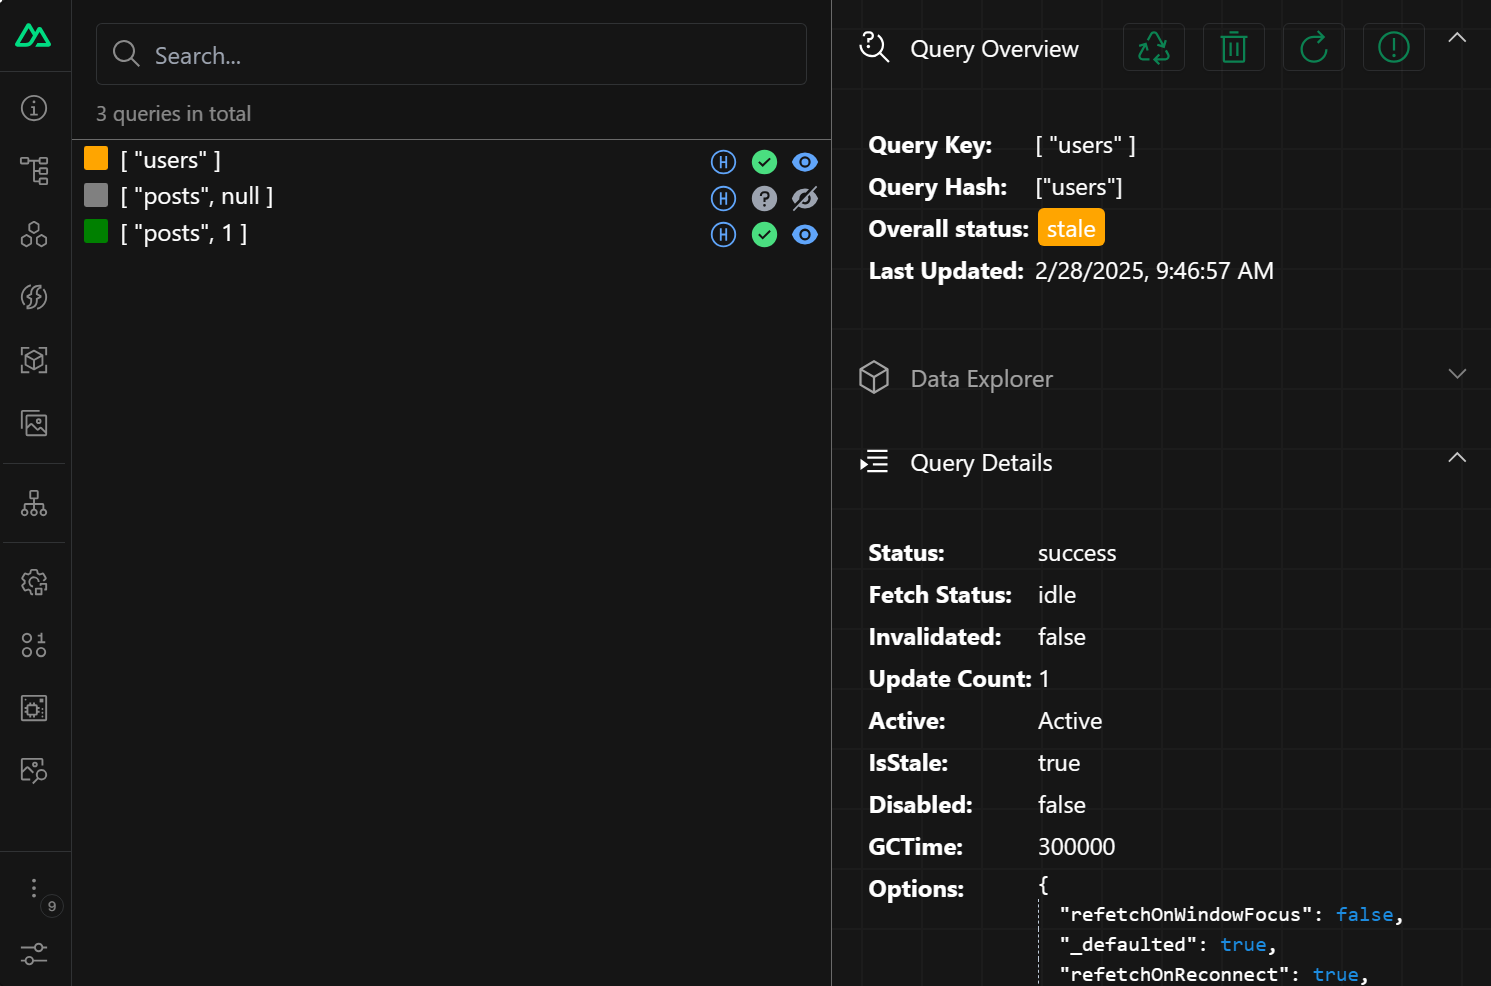
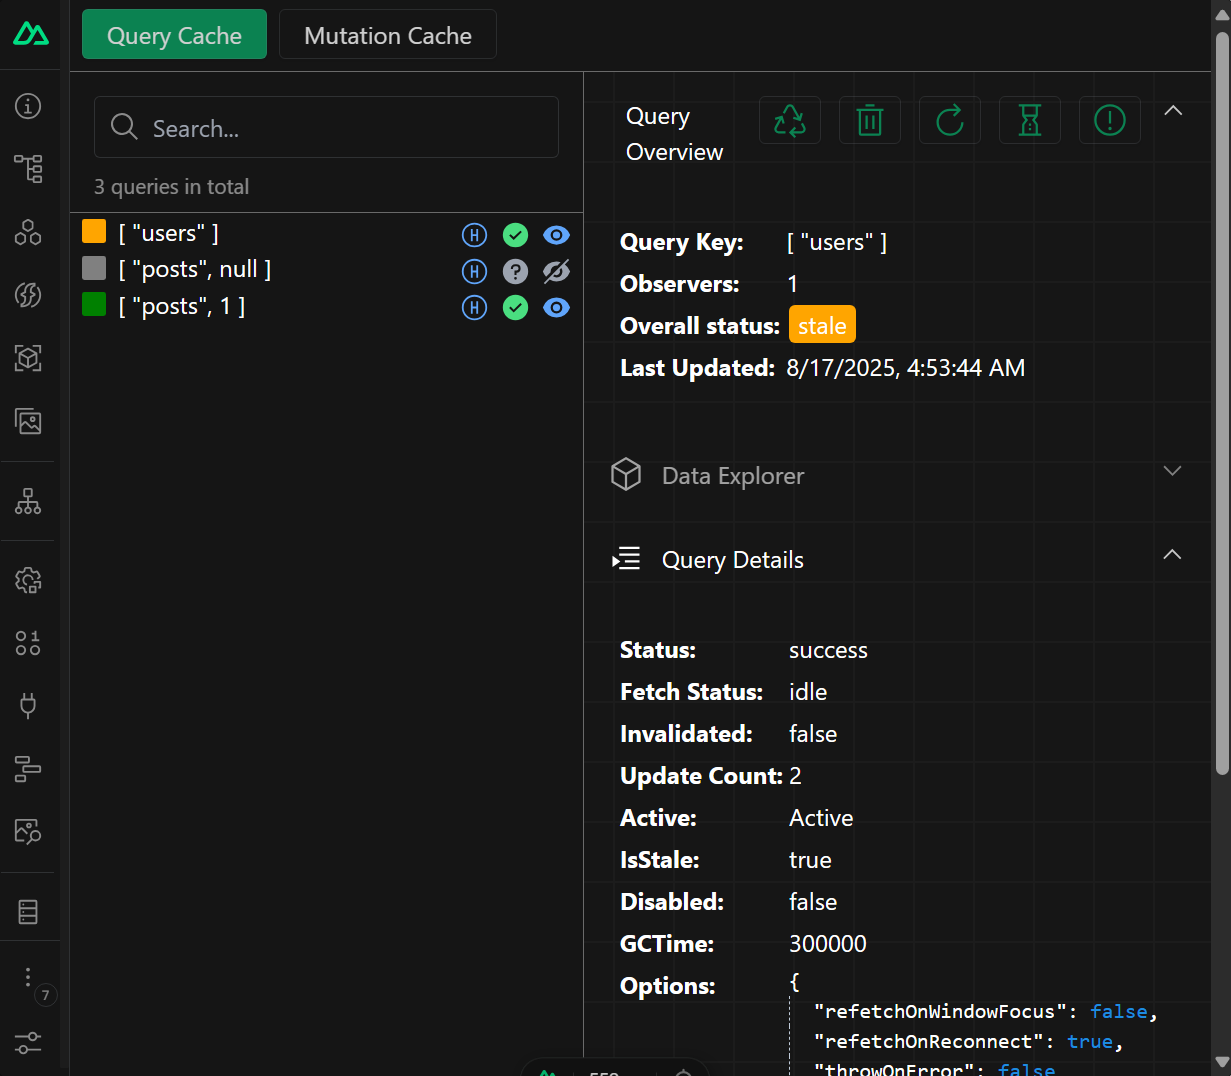
docs: update README for clarity and add new images

diff --git a/README.md b/README.md
@@ -5,18 +5,18 @@
 [![License][license-src]][license-href]
 [![Nuxt][nuxt-src]][nuxt-href]
 
-Nuxt Query is a module for integrating [Tanstack Query](https://tanstack.com/query/latest/docs/framework/vue/overview) (formerly known as Vue Query) into your Nuxt application, providing a powerful solution for fetching, caching, synchronizing and updating server state.
+A powerful Nuxt module for integrating [TanStack Query](https://tanstack.com/query/latest/docs/framework/vue/overview) (formerly Vue Query) into your Nuxt application. Provides robust server state management with intelligent caching, background updates, and seamless data synchronization.
 
 - [✨ &nbsp;Release Notes](/CHANGELOG.md)
+- [🏀 &nbsp;Online playground](https://stackblitz.com/github/peterbud/nuxt-query/tree/main/examples/minimal)
 
 ## Features
 
-<!-- Highlight some of the features your module provide here -->
-- ⚙ &nbsp; 0 config integration
-- 💪 &nbsp; Full support of Vue Query config settings
-- 🏆 &nbsp; Support for complex `QueryClient` setup with handlers via hooks
+- ⚙ &nbsp; Zero-configuration integration
+- 💪 &nbsp; Full TypeScript support with Vue Query configuration
+- 🏆 &nbsp; Advanced `QueryClient` setup with custom handlers via hooks
 - 🤖 &nbsp; Configurable auto-imports for Vue Query composables
-- 🧩 &nbsp; Nuxt DevTools integration for easy debugging
+- 🧩 &nbsp; Nuxt DevTools integration for debugging and inspection
 
 ## Installation
 
@@ -29,7 +29,7 @@ npx nuxi module add @peterbud/nuxt-query
 or via npm:
 
 ```bash
-pnpm dlx nuxi module add @peterbud/nuxt-query
+npm install @peterbud/nuxt-query
 ```
 
 ## Configuration
@@ -42,12 +42,12 @@ export default defineNuxtConfig({
   modules: ['@peterbud/nuxt-query'],
   nuxtQuery: {
     /**
-     * Specify which Vue Query composable(s) to auto-import
-     * Default to `false`, set to `true` to auto-import all Vue Query composables
+     * Specify which Vue Query composables to auto-import
+     * Default: `false`, set to `true` to auto-import all Vue Query composables
      */
     autoImports: ['useQuery', 'useMutation'],
 
-    // Enable / disable Nuxt DevTools integration (default: true).
+    // Enable/disable Nuxt DevTools integration (default: true)
     devtools: true,
 
     /**
@@ -93,7 +93,7 @@ That's it! You can now use Nuxt Query in your Nuxt app ✨
 
 ## Module Hooks
 
-Nuxt Query provides a hook that you can use in your application if you need a more complex setup for Vue Query, like custom query client with centralized `onSuccess` or `onError` handlers, which would not be possible to configure with the options available in the `nuxt.config.ts`.
+Nuxt Query provides a hook that you can use in your application if you need a more complex setup for TanStack Query, such as a custom query client with centralized `onSuccess` or `onError` handlers, which would not be possible to configure with the options available in the `nuxt.config.ts`.
 
 The hook is called `nuxt-query:configure` and you can use it in a plugin to return a custom `QueryClient` object in the following way:
 
@@ -127,6 +127,10 @@ export default defineNuxtPlugin({
 Nuxt Query integrates with Nuxt DevTools to provide a dedicated tab for Vue Query, where you can inspect the state of your queries, view their cache, and properties, initiate refetch or remove certain queries and more.
 
 ![Nuxt DevTools](assets/devtools.png)
+
+Also, you can inspect your mutation cache using the same DevTools in a convenient way.
+
+![Mutation Cache](assets/mutationcache.png)
 
 ## Contribution
 
